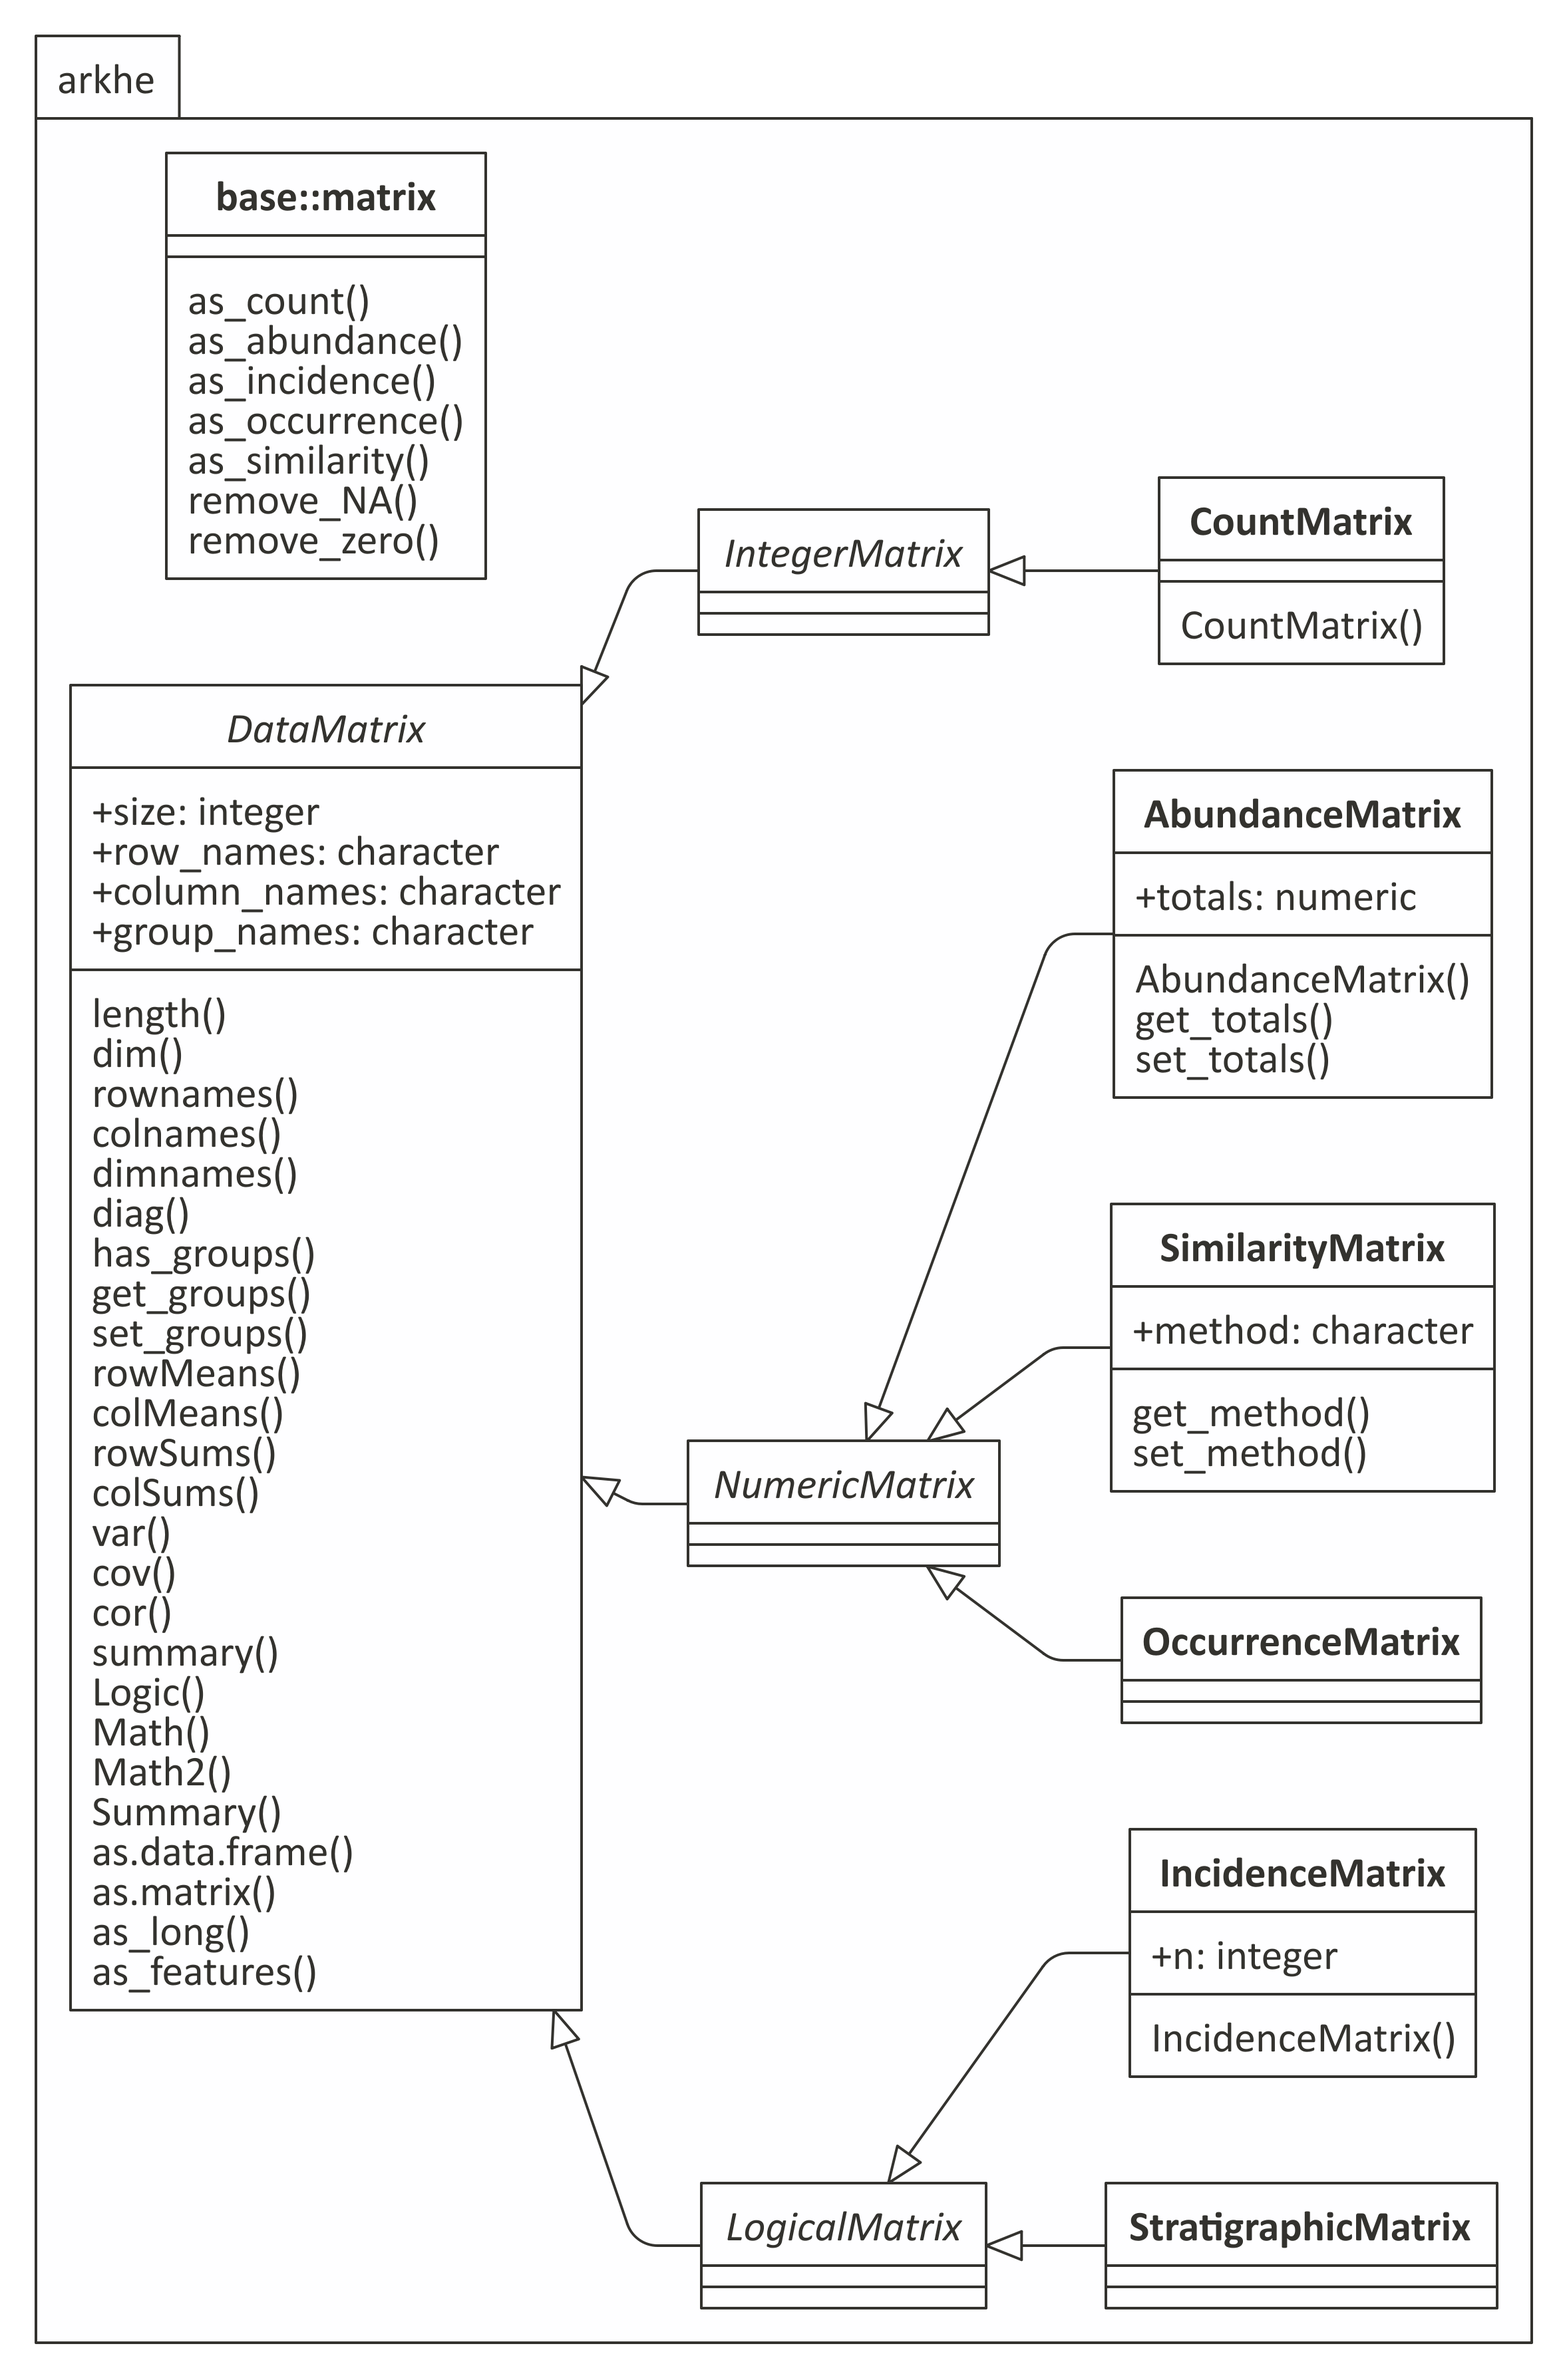
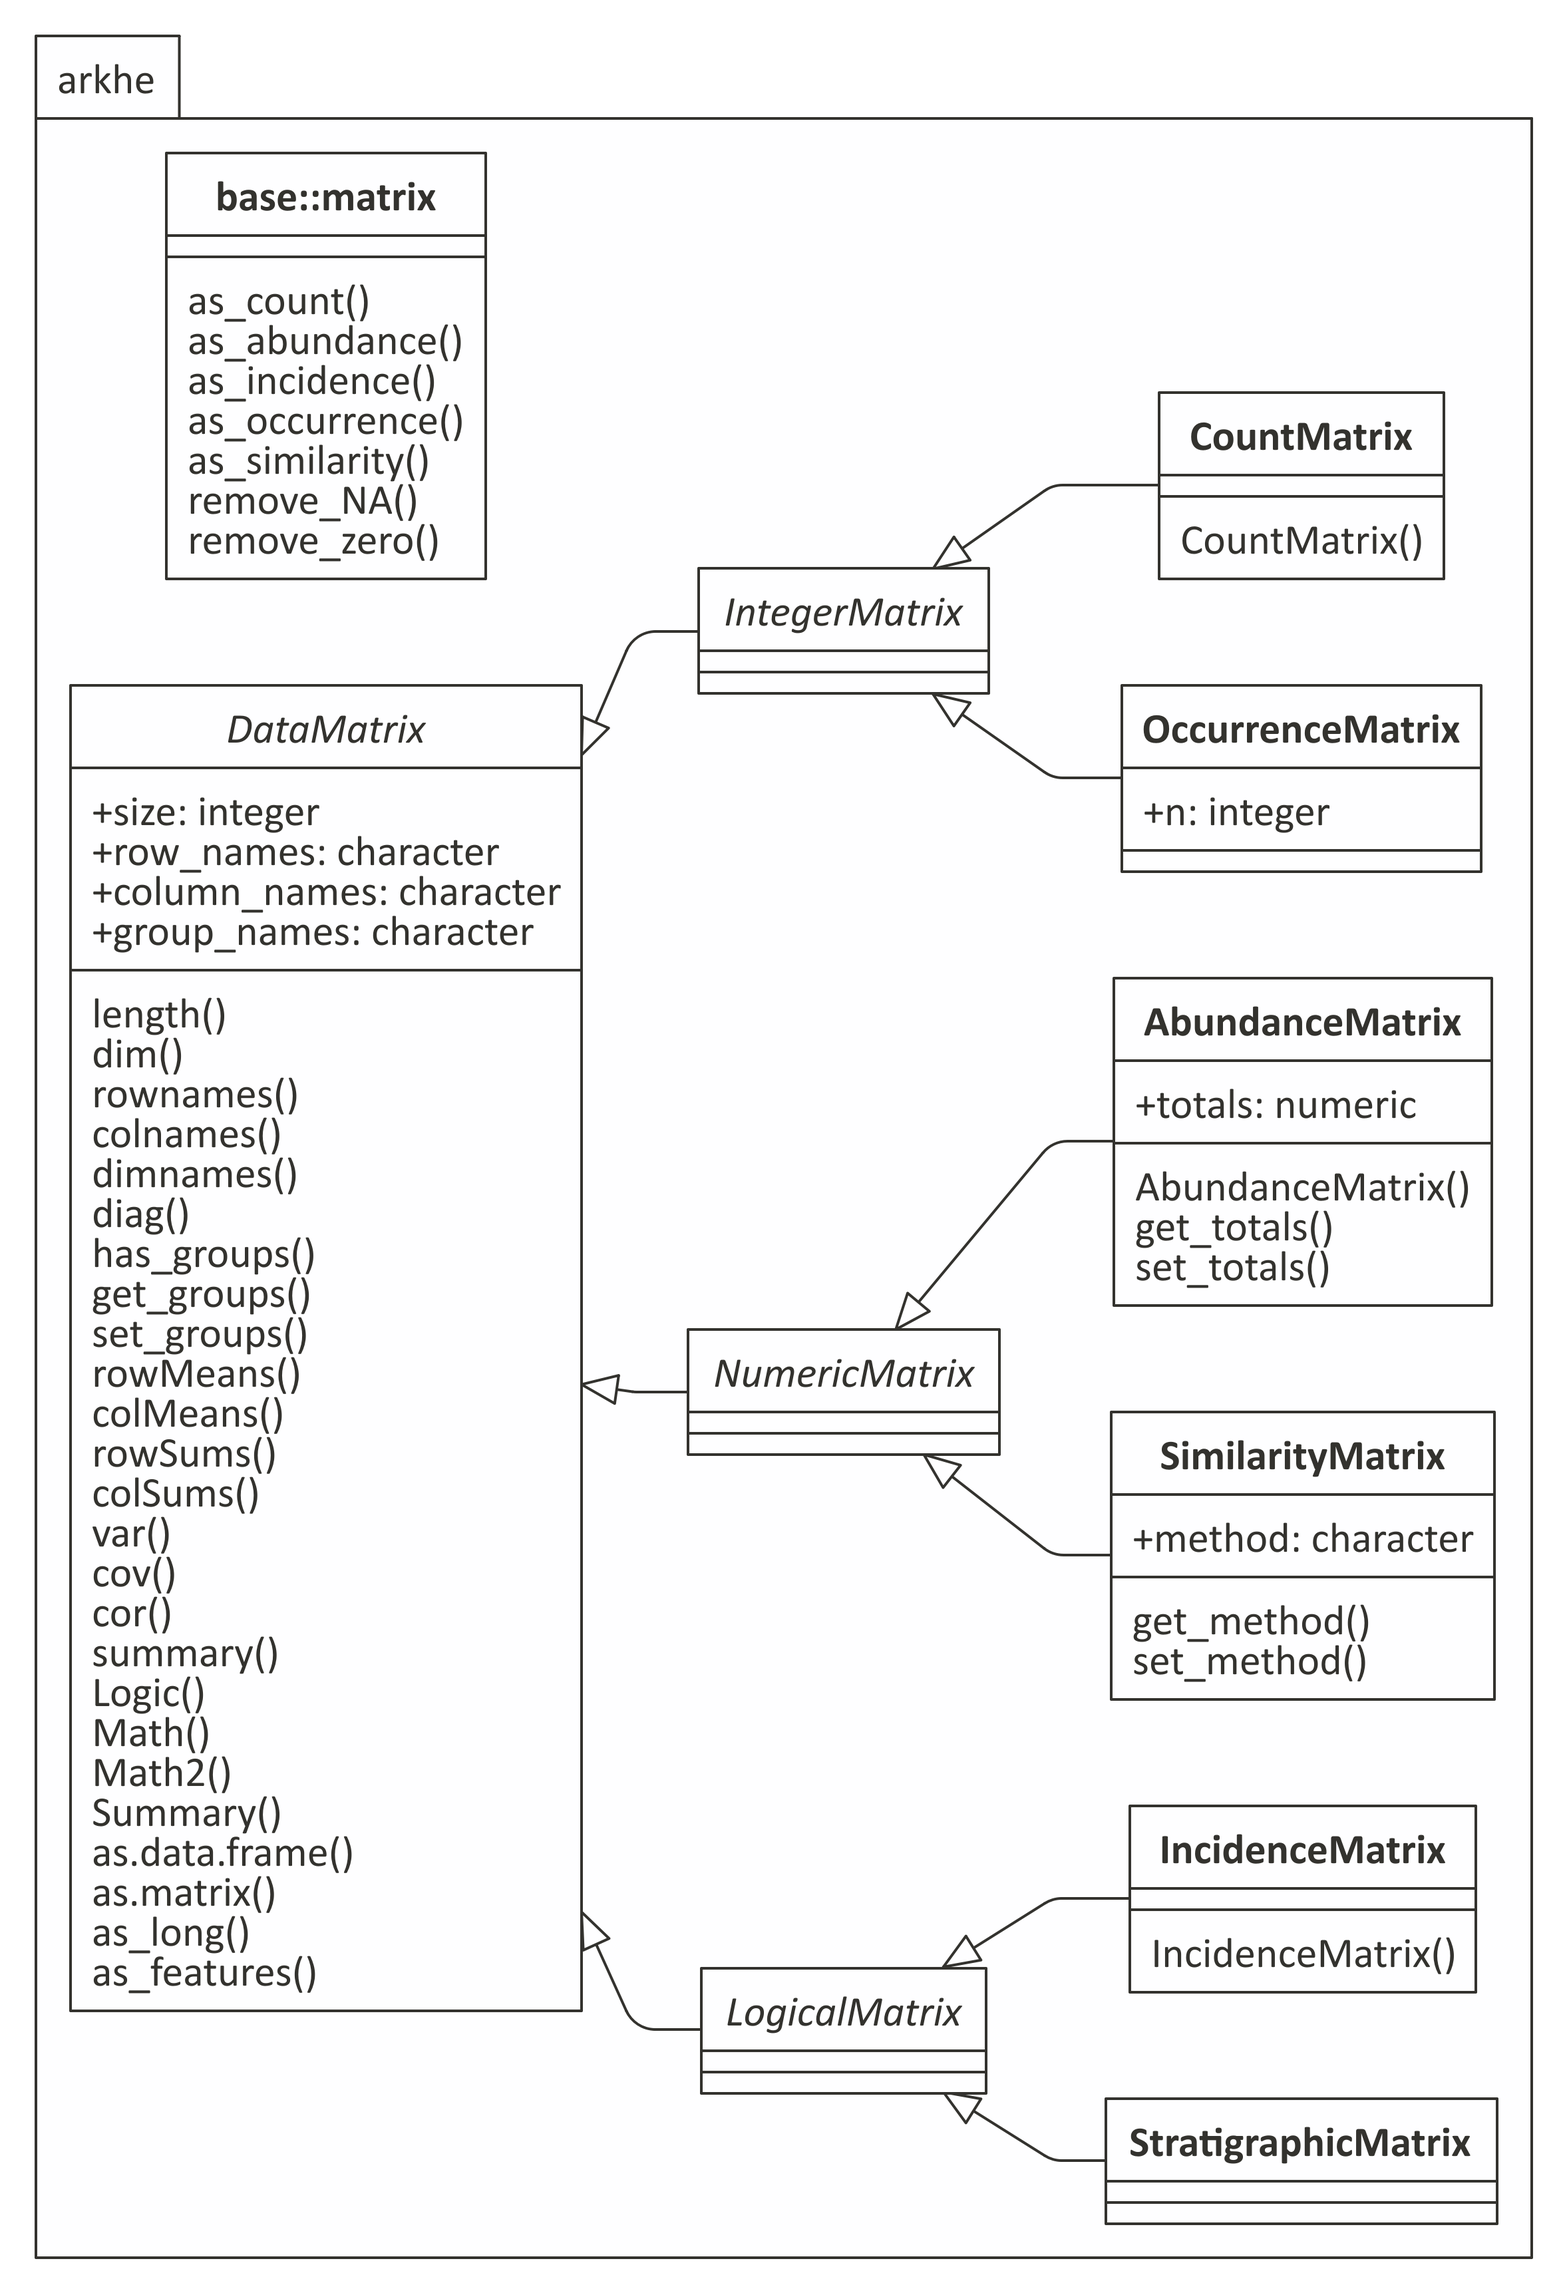
Change OccurrenceMatrix inheritance

diff --git a/README.md b/README.md
@@ -64,9 +64,9 @@ types of matrix.
 
   - Integer matrix:
       - `CountMatrix` represents absolute frequency data,
+      - `OccurrenceMatrix` represents a co-occurrence matrix,
   - Numeric matrix:
       - `AbundanceMatrix` represents relative frequency data,
-      - `OccurrenceMatrix` represents a co-occurrence matrix,
       - `SimilarityMatrix` represents a (dis)similarity matrix,
   - Logical matrix:
       - `IncidenceMatrix` represents presence/absence data,
@@ -125,14 +125,14 @@ Many familiar methods and group generic functions are available for all
 ``` r
 rowSums(A1)
 #>  row1  row2  row3  row4  row5  row6  row7  row8  row9 row10 row11 row12 row13 
-#>    18    20    30    18    29    27    19    33    22    23    30    29    20 
+#>    28    28    28    27    20    14    29    12    20    37    24    32    13 
 #> row14 row15 
-#>    17    17
+#>    24    21
 apply(X = A1, MARGIN = 1, FUN = sum)
 #>  row1  row2  row3  row4  row5  row6  row7  row8  row9 row10 row11 row12 row13 
-#>    18    20    30    18    29    27    19    33    22    23    30    29    20 
+#>    28    28    28    27    20    14    29    12    20    37    24    32    13 
 #> row14 row15 
-#>    17    17
+#>    24    21
 ```
 
 Observations in `*Matrix` classes can be grouped, this can be useful for
@@ -143,29 +143,29 @@ replicated measurements/observations or to group data by site/area.
 set_groups(A1) <- rep(c("A", "B", "C"), each = 5)
 summary(A1)
 #> --- A (5 observations) ---------------------------------------------------------
-#>       col1           col2          col3          col4          col5    
-#>  Min.   : 1.0   Min.   :3.0   Min.   :1.0   Min.   :0.0   Min.   :1.0  
-#>  1st Qu.: 2.0   1st Qu.:4.0   1st Qu.:3.0   1st Qu.:3.0   1st Qu.:1.0  
-#>  Median : 8.0   Median :4.0   Median :5.0   Median :4.0   Median :3.0  
-#>  Mean   : 5.8   Mean   :4.2   Mean   :4.8   Mean   :4.6   Mean   :3.6  
-#>  3rd Qu.: 8.0   3rd Qu.:5.0   3rd Qu.:6.0   3rd Qu.:8.0   3rd Qu.:4.0  
-#>  Max.   :10.0   Max.   :5.0   Max.   :9.0   Max.   :8.0   Max.   :9.0  
+#>       col1          col2          col3         col4           col5     
+#>  Min.   :1.0   Min.   :1.0   Min.   : 2   Min.   : 4.0   Min.   : 1.0  
+#>  1st Qu.:2.0   1st Qu.:2.0   1st Qu.: 7   1st Qu.: 6.0   1st Qu.: 2.0  
+#>  Median :3.0   Median :2.0   Median : 7   Median : 8.0   Median : 7.0  
+#>  Mean   :3.2   Mean   :2.8   Mean   : 7   Mean   : 7.4   Mean   : 5.8  
+#>  3rd Qu.:5.0   3rd Qu.:3.0   3rd Qu.: 9   3rd Qu.: 9.0   3rd Qu.: 9.0  
+#>  Max.   :5.0   Max.   :6.0   Max.   :10   Max.   :10.0   Max.   :10.0  
 #> --- B (5 observations) ---------------------------------------------------------
-#>       col1          col2           col3           col4           col5     
-#>  Min.   :0.0   Min.   : 1.0   Min.   : 0.0   Min.   : 0.0   Min.   : 0.0  
-#>  1st Qu.:2.0   1st Qu.: 1.0   1st Qu.: 4.0   1st Qu.: 5.0   1st Qu.: 1.0  
-#>  Median :7.0   Median : 2.0   Median : 6.0   Median : 8.0   Median : 4.0  
-#>  Mean   :5.2   Mean   : 3.2   Mean   : 5.6   Mean   : 6.6   Mean   : 4.2  
-#>  3rd Qu.:8.0   3rd Qu.: 2.0   3rd Qu.: 8.0   3rd Qu.:10.0   3rd Qu.: 6.0  
-#>  Max.   :9.0   Max.   :10.0   Max.   :10.0   Max.   :10.0   Max.   :10.0  
+#>       col1           col2           col3          col4          col5    
+#>  Min.   : 1.0   Min.   : 2.0   Min.   :0.0   Min.   :1.0   Min.   :0.0  
+#>  1st Qu.: 3.0   1st Qu.: 2.0   1st Qu.:0.0   1st Qu.:2.0   1st Qu.:2.0  
+#>  Median : 5.0   Median : 6.0   Median :6.0   Median :3.0   Median :4.0  
+#>  Mean   : 5.6   Mean   : 5.8   Mean   :4.4   Mean   :3.2   Mean   :3.4  
+#>  3rd Qu.: 9.0   3rd Qu.: 9.0   3rd Qu.:8.0   3rd Qu.:3.0   3rd Qu.:5.0  
+#>  Max.   :10.0   Max.   :10.0   Max.   :8.0   Max.   :7.0   Max.   :6.0  
 #> --- C (5 observations) ---------------------------------------------------------
-#>       col1          col2          col3        col4          col5     
-#>  Min.   :0.0   Min.   :0.0   Min.   :1   Min.   :5.0   Min.   : 2.0  
-#>  1st Qu.:1.0   1st Qu.:2.0   1st Qu.:1   1st Qu.:6.0   1st Qu.: 5.0  
-#>  Median :5.0   Median :5.0   Median :1   Median :6.0   Median : 7.0  
-#>  Mean   :3.6   Mean   :4.4   Mean   :2   Mean   :6.2   Mean   : 6.4  
-#>  3rd Qu.:6.0   3rd Qu.:7.0   3rd Qu.:2   3rd Qu.:7.0   3rd Qu.: 8.0  
-#>  Max.   :6.0   Max.   :8.0   Max.   :5   Max.   :7.0   Max.   :10.0
+#>       col1          col2           col3           col4          col5    
+#>  Min.   :3.0   Min.   : 2.0   Min.   : 0.0   Min.   :0.0   Min.   :1.0  
+#>  1st Qu.:4.0   1st Qu.: 6.0   1st Qu.: 4.0   1st Qu.:0.0   1st Qu.:2.0  
+#>  Median :4.0   Median : 7.0   Median : 6.0   Median :3.0   Median :2.0  
+#>  Mean   :4.2   Mean   : 6.6   Mean   : 5.6   Mean   :2.6   Mean   :3.8  
+#>  3rd Qu.:5.0   3rd Qu.: 8.0   3rd Qu.: 8.0   3rd Qu.:4.0   3rd Qu.:6.0  
+#>  Max.   :5.0   Max.   :10.0   Max.   :10.0   Max.   :6.0   Max.   :8.0
 ```
 
 ## Contributing
